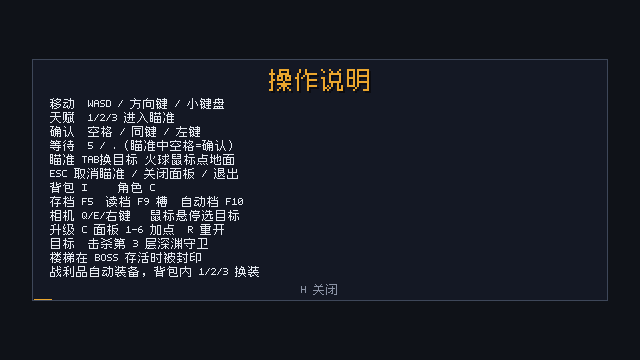
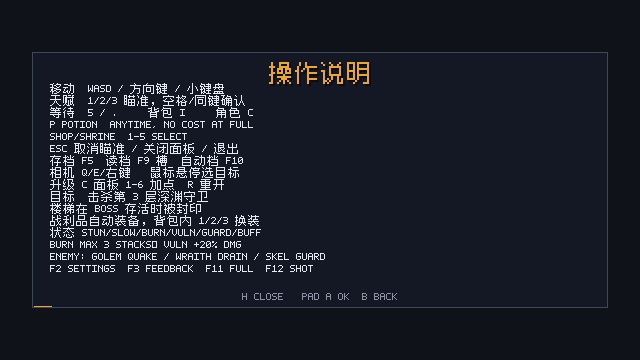
feat: SDL gamepad navigation

Changed region(s): [[0.0625, 0.2139, 0.5, 0.7639], [0.0312, 0.7944, 0.9375, 0.8556], [0.4062, 0.1528, 0.5938, 0.2444]]

diff --git a/docs/GAMEPAD.md b/docs/GAMEPAD.md
@@ -1,0 +1,39 @@
+# 手柄 / Steam Input
+
+## 当前映射
+
+SDL3 Gamepad，启动时打开第一个已连接手柄。
+
+| 输入 | 功能 |
+| --- | --- |
+| D-pad / 左摇杆 | 移动（按方向触发一次） |
+| A (South) | 确认 / 等待（等同 Space） |
+| B (East) | 取消 / 关闭面板 / Esc |
+| X (West) | 背包 |
+| Y (North) | 角色 |
+| LB | 天赋 1 |
+| RB | 天赋 2 |
+| 左摇杆按下 | 天赋 3 |
+| Start | 帮助 |
+| Back | 设置 |
+
+Steam Input 可把手柄映射成标准 XInput 布局；不需要额外配置即可被 SDL 识别。
+
+## 实现
+
+- SDL_InitSubSystem(SDL_INIT_GAMEPAD)
+- SDL_GetGamepads + SDL_OpenGamepad
+- 每帧轮询按钮/轴，按边缘触发
+- 左摇杆死区 16000，方向变化才发一步
+
+## 限制
+
+- 启动时只打开第一个手柄；热插拔未处理。
+- 没有震动/扳机/右摇杆视角。
+- 没有改键 UI。
+- 手柄提示尚未画在 HUD 上，先写 README/本文件。
+
+## 验证
+
+- 编译器/单测覆盖 API 调用；实机需 Steam Deck 或 XInput 手柄。
+- 若手柄未连接，全部逻辑跳过，键鼠不受影响。

diff --git a/docs/STEAM.md b/docs/STEAM.md
@@ -14,7 +14,7 @@
 | 存档路径 | 已改 SDL_GetPrefPath；旧 saves 自动迁移；--portable 保留 cwd | Cloud 白名单 |
 | 声音 | 程序化 SFX + 音量；无 BGM | 至少 BGM/环境音 |
 | 设置 | 全屏/窗口/VSync/倍率/音量已可调 | 键位、语言、音频设备 |
-| 手柄 | 键鼠 | Steam Input / 手柄导航 |
+| 手柄 | SDL3 gamepad 基础映射 | 热插拔、改键、Steam Input 官方配置 |
 | 本地化 | 中文 | 英文商店页 + 英文本地化（至少 UI/日志） |
 | 商店素材 | 占位 Capsule + 1920 截图已生成 | 正式 key art、5 张截图、预告片 |
 | 法律 | 无 | EULA/隐私政策、第三方许可（SDL/zflecs/字体/Kenney） |
